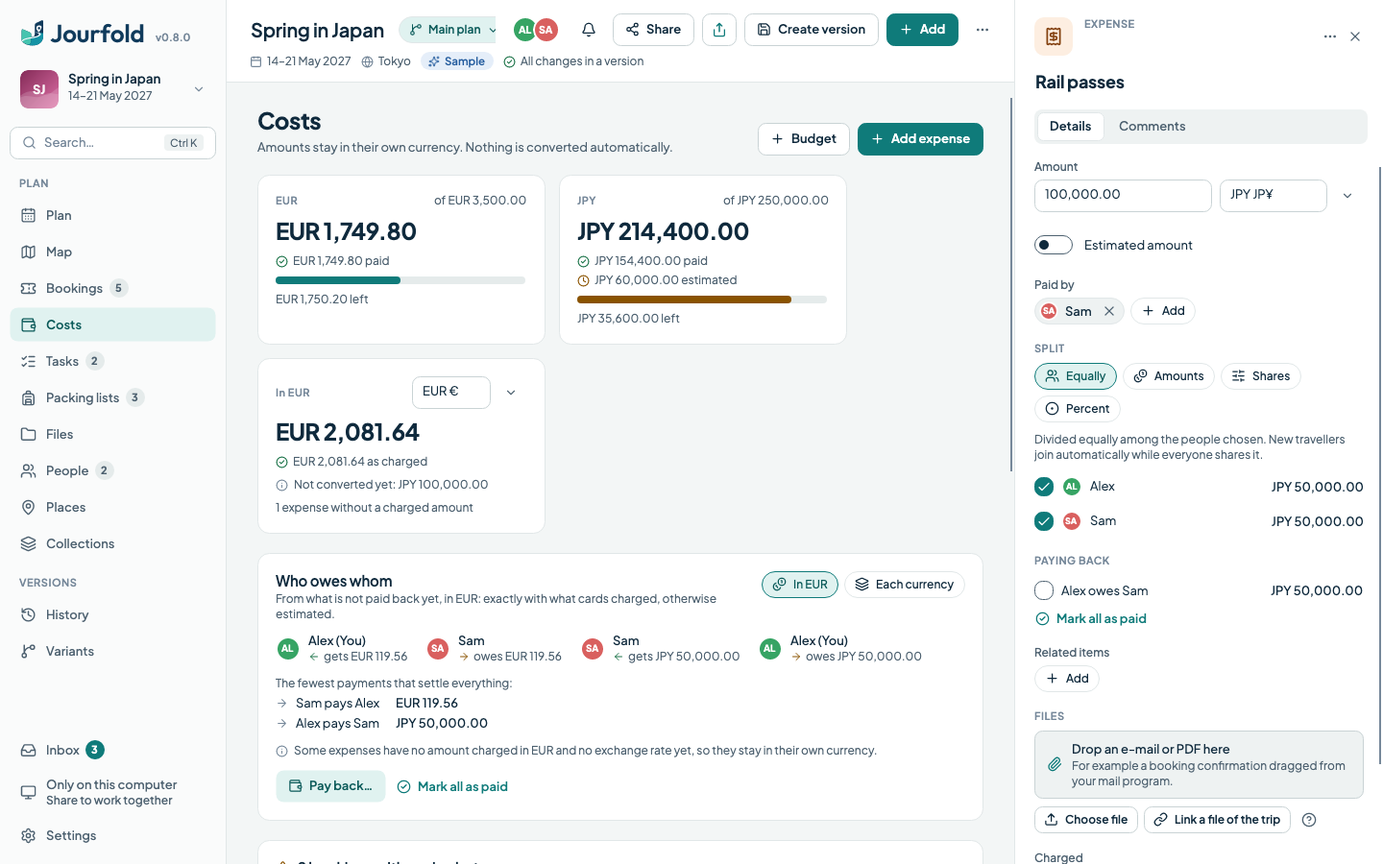
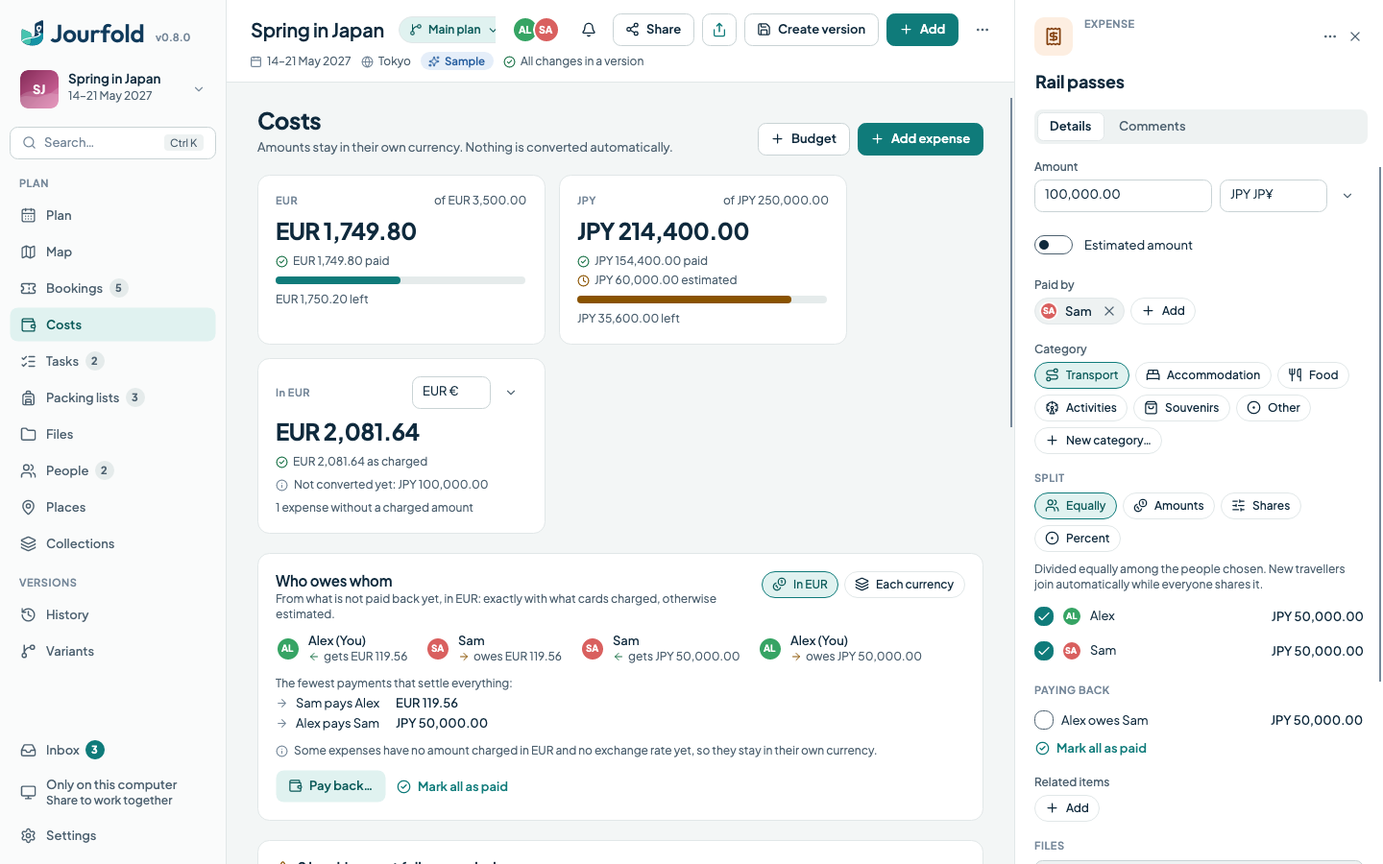
Expense categories, and bookings show how much of their price is recorded
Expenses get a category in their details and in the add-expense form:
transport, accommodation, food, activities, souvenirs, other, or one the
travellers create; without one, the plan or booking suggests it. Costs
show totals by category and each expense's category. A booking's details
compare its price with its expenses and offer to record what is still
open; the bookings list marks Rest open, and the Costs page lists those
bookings too. The phone shows the category. The sample trip has
categories; the costs screenshot is refreshed.

diff --git a/src/Jourfold.Desktop/Views/ExpenseViews.cs b/src/Jourfold.Desktop/Views/ExpenseViews.cs
@@ -242,41 +242,131 @@ public static class ExpenseViews
         return Ui.Card(body, 18).Also(c => c.Width = 300);
     }
 
-    /// <summary>In a booking's details: the expenses recorded for it, or, when it has a price but none, a note and a button to add one.</summary>
+    /// <summary>The icon of an expense category; categories of the travellers' own share a tag.</summary>
+    public static string CategoryIcon(string category) => category switch
+    {
+        ExpenseCategories.Transport => "route",
+        ExpenseCategories.Accommodation => "bed-double",
+        ExpenseCategories.Food => "utensils",
+        ExpenseCategories.Activity => "ferris-wheel",
+        ExpenseCategories.Souvenirs => "shopping-bag",
+        ExpenseCategories.Other => "circle-dot",
+        _ => "tag"
+    };
+
+    /// <summary>The name of a category: standard ones translated, the travellers' own as they typed them.</summary>
+    public static string CategoryName(Localization s, string category) => ExpenseCategories.IsStandard(category) ? s["expcat." + category] : category;
+
+    /// <summary>
+    /// The category of an expense as chips: the standard ones, those the travellers created in this trip, and a
+    /// button for a new one. Without a stored category the suggested one is marked, with a note where it comes from;
+    /// choosing the marked chip again goes back to the suggestion.
+    /// </summary>
+    public static Control CategoryEditor(Localization s, TripSnapshot trip, Entity expense, Func<Func<TripSnapshot, Entity, Entity>, Task> change, Func<Task<string?>> askName)
+    {
+        var stored = ExpenseCategories.Stored(expense);
+        var current = ExpenseCategories.Of(trip, expense);
+        var chips = new WrapPanel { ItemSpacing = 6, LineSpacing = 6 };
+        foreach (var category in ExpenseCategories.Standard.Concat(ExpenseCategories.Custom(trip)).Append(stored).OfType<string>().Distinct())
+        {
+            var chip = Ui.Choice(CategoryName(s, category), CategoryIcon(category), category == current, "chip");
+            chip.Click += (_, _) => _ = change((t, e) => ExpenseCategories.With(t, e, category == stored ? null : category));
+            chips.Children.Add(chip);
+        }
+        var add = Ui.Button(s["NewCategory"], "plus", "chip");
+        add.Click += async (_, _) => { if (await askName() is { } name && name.Trim().Length > 0) await change((t, e) => ExpenseCategories.With(t, e, name)); };
+        chips.Children.Add(add);
+        AutomationProperties.SetName(chips, s["Category"]);
+        var panel = Ui.V(6, chips);
+        if (stored is null && ExpenseCategories.Suggested(trip, expense) is not null) panel.Children.Add(Ui.Text(s["CategorySuggested"], "caption").Also(t => t.TextWrapping = TextWrapping.Wrap));
+        return panel;
+    }
+
+    /// <summary>
+    /// The paid expenses per category, in the currency who owes whom uses where they can be converted, largest first,
+    /// each with a bar for its part of its currency's total. Null without expenses.
+    /// </summary>
+    public static Control? ByCategory(MainWindow w)
+    {
+        var m = w.Model; var s = m.Strings; var trip = m.Trip!;
+        var totals = ExpenseCategories.Totals(trip, m.SettleCurrency, m.EstimateRates);
+        if (totals.Count == 0) return null;
+        var rows = Ui.V(8);
+        foreach (var currency in totals.GroupBy(t => t.Currency))
+        {
+            var sum = currency.Sum(t => t.Amount);
+            foreach (var t in currency)
+            {
+                var ratio = sum == 0 ? 0 : (double)(t.Amount / sum);
+                var bar = new Grid { ColumnDefinitions = new ColumnDefinitions($"{ratio.ToString(System.Globalization.CultureInfo.InvariantCulture)}*,{(1 - ratio).ToString(System.Globalization.CultureInfo.InvariantCulture)}*"), Height = 6, Margin = new Thickness(0, 4, 0, 0) };
+                bar.Children.Add(new Border { CornerRadius = new CornerRadius(3) }.Res(Border.BackgroundProperty, "Bg.Muted").Col(0, 2));
+                bar.Children.Add(new Border { CornerRadius = new CornerRadius(3) }.Res(Border.BackgroundProperty, "Accent"));
+                var amount = (t.Estimated ? "≈ " : "") + Formats.Money(t.Amount, t.Currency) + " · " + ratio.ToString("P0", System.Globalization.CultureInfo.CurrentCulture);
+                rows.Children.Add(Ui.V(0, Ui.Columns("Auto,*,Auto", Ui.Icon(CategoryIcon(t.Category), 14, "Text.Muted").Margin(0, 0, 8, 0), Ui.Line(CategoryName(s, t.Category)), Ui.Text(amount, "strong")), bar));
+            }
+        }
+        var body = Ui.V(12, Ui.Text(s["ByCategory"], "h3"), rows);
+        if (totals.Any(t => t.Estimated)) body.Children.Add(Notice("info", "Text.Subtle", s["EstimatedWithRates"]));
+        return Ui.Card(body, 18);
+    }
+
+    /// <summary>
+    /// In a booking's details: its expenses, and how they compare with the price. The price itself never counts; the
+    /// note says whether nothing, part or all of it is recorded, and offers to record what is still open.
+    /// </summary>
     public static Control? BookingExpenses(MainWindow w, Entity booking)
     {
         var m = w.Model; var s = m.Strings; var trip = m.Trip!;
-        if (Expenses.WithoutExpense(trip).Any(b => b.Id == booking.Id))
+        var payment = Expenses.Payment(trip, booking);
+        if (payment.Coverage == BookingCoverage.NoPrice && payment.Expenses.Count == 0) return null;
+        var panel = Ui.V(6);
+        string Money(decimal amount) => Formats.Money(amount, payment.Price!.Currency);
+        switch (payment.Coverage)
         {
-            var add = Ui.Button(s["AddAsExpense"], "receipt", "soft").Also(b => b.HorizontalAlignment = HorizontalAlignment.Left);
-            add.Click += (_, _) => _ = m.AddExpenseForBookingAsync(booking.Id);
-            return Ui.V(8, Notice("triangle-alert", "Warning", s["BookingNoExpense"]), add);
+            case BookingCoverage.None: panel.Children.Add(Notice("triangle-alert", "Warning", s["BookingNoExpense"])); break;
+            case BookingCoverage.Partial: panel.Children.Add(Notice("clock", "Warning", string.Format(s["BookingPartlyRecorded"], Money(payment.Recorded), Money(payment.Price!.Amount), Money(payment.Rest)))); break;
+            case BookingCoverage.Complete: panel.Children.Add(Notice("circle-check", "Success", s["BookingFullyRecorded"])); break;
+            case BookingCoverage.More: panel.Children.Add(Notice("info", "Text.Subtle", string.Format(s["BookingMoreRecorded"], Money(payment.Recorded), Money(-payment.Rest)))); break;
+            case BookingCoverage.OtherCurrency: panel.Children.Add(Notice("info", "Text.Subtle", string.Format(s["BookingOtherCurrency"], payment.Price!.Currency))); break;
         }
-        var expenses = Expenses.ForBooking(trip, booking.Id);
-        return expenses.Count == 0 ? null : Ui.V(2, expenses.Select(e => (Control)InspectorView.Link(w, e)).ToArray());
+        foreach (var expense in payment.Expenses) panel.Children.Add(InspectorView.Link(w, expense));
+        if (payment.Coverage is BookingCoverage.None or BookingCoverage.Partial)
+        {
+            var add = Ui.Button(s[payment.Coverage == BookingCoverage.None ? "AddAsExpense" : "AddRestAsExpense"], "receipt", "soft").Also(b => b.HorizontalAlignment = HorizontalAlignment.Left);
+            add.Click += (_, _) => _ = m.AddExpenseForBookingAsync(booking.Id);
+            panel.Children.Add(add);
+        }
+        return panel;
     }
 
-    /// <summary>A pill for the bookings list when a booking's price is not recorded as an expense yet.</summary>
-    public static Control? MissingExpensePill(Localization s, IReadOnlySet<Guid> missing, Entity booking) =>
-        missing.Contains(booking.Id) ? Ui.Pill(s["NoExpenseYet"], "receipt", "Warning.Soft", "Warning") : null;
+    /// <summary>A pill for the bookings list when a booking's price is not, or only partly, recorded as expenses.</summary>
+    public static Control? MissingExpensePill(Localization s, IReadOnlyDictionary<Guid, BookingPayment> payments, Entity booking) =>
+        payments.GetValueOrDefault(booking.Id)?.Coverage switch
+        {
+            BookingCoverage.None => Ui.Pill(s["NoExpenseYet"], "receipt", "Warning.Soft", "Warning"),
+            BookingCoverage.Partial => Ui.Pill(s["RestOpen"], "clock", "Warning.Soft", "Warning"),
+            _ => null
+        };
 
-    /// <summary>On the Costs page: bookings with a price but no expense, each with a button that records it.</summary>
+    /// <summary>On the Costs page: bookings whose price is not, or only partly, recorded, each with a button that records what is open.</summary>
     public static Control? MissingExpenses(MainWindow w)
     {
         var m = w.Model; var s = m.Strings; var trip = m.Trip!;
-        var missing = Expenses.WithoutExpense(trip);
-        if (missing.Count == 0) return null;
+        var open = Expenses.Payments(trip).Where(p => p.Coverage is BookingCoverage.None or BookingCoverage.Partial).ToArray();
+        if (open.Length == 0) return null;
         var list = Ui.V(4);
-        foreach (var booking in missing)
+        foreach (var payment in open)
         {
-            var price = TripSummaries.Money(booking.Data["price"])!;
-            var add = Ui.Button(s["AddAsExpense"], "plus", "small");
-            AutomationProperties.SetName(add, string.Format(s["AddAsExpenseFor"], booking.Title));
+            var booking = payment.Booking; var price = payment.Price!;
+            var partial = payment.Coverage == BookingCoverage.Partial;
+            var add = Ui.Button(s[partial ? "AddRestAsExpenseShort" : "AddAsExpense"], "plus", "small");
+            AutomationProperties.SetName(add, string.Format(s[partial ? "AddRestAsExpenseFor" : "AddAsExpenseFor"], booking.Title));
             add.Click += (_, _) => _ = m.AddExpenseForBookingAsync(booking.Id);
-            list.Children.Add(Ui.Columns("*,Auto,Auto", Ui.Line(booking.Title).Also(t => t.VerticalAlignment = VerticalAlignment.Center), Ui.Text(Formats.Money(price.Amount, price.Currency), "strong").Margin(12, 0).Also(t => t.VerticalAlignment = VerticalAlignment.Center), add));
+            var amount = partial ? string.Format(s["RestAmount"], Formats.Money(payment.Rest, price.Currency)) : Formats.Money(price.Amount, price.Currency);
+            list.Children.Add(Ui.Columns("*,Auto,Auto", Ui.Line(booking.Title).Also(t => t.VerticalAlignment = VerticalAlignment.Center), Ui.Text(amount, "strong").Margin(12, 0).Also(t => t.VerticalAlignment = VerticalAlignment.Center), add));
         }
         var heading = Ui.Columns("Auto,*", Ui.Icon("triangle-alert", 15, "Warning").Margin(0, 2, 8, 0).Also(i => i.VerticalAlignment = VerticalAlignment.Top),
-            Ui.V(2, Ui.Text(missing.Count == 1 ? s["BookingsWithoutExpenseOne"] : string.Format(s["BookingsWithoutExpense"], missing.Count), "h3"), Ui.Text(s["BookingsWithoutExpenseHint"], "caption").Also(t => t.TextWrapping = TextWrapping.Wrap)));
+            Ui.V(2, Ui.Text(open.Length == 1 ? s["BookingsWithoutExpenseOne"] : string.Format(s["BookingsWithoutExpense"], open.Length), "h3"), Ui.Text(s["BookingsWithoutExpenseHint"], "caption").Also(t => t.TextWrapping = TextWrapping.Wrap)));
         return Ui.Card(Ui.V(12, heading, list), 18);
     }
 

diff --git a/tests/Jourfold.Tests/ExpenseSplitTests.cs b/tests/Jourfold.Tests/ExpenseSplitTests.cs
@@ -178,8 +178,8 @@ public sealed class ExpenseSplitTests : IDisposable
     }
 
     [AvaloniaTheory]
-    [InlineData("en", "1 booking with a price but no expense", "No expense", "Add Te Anau Lakeview Holiday Park as an expense", "Add")]
-    [InlineData("de", "1 Buchung mit Preis, aber ohne Ausgabe", "Keine Ausgabe", "Te Anau Lakeview Holiday Park als Ausgabe erfassen", "Hinzufügen")]
+    [InlineData("en", "1 booking not fully recorded as expenses", "No expense", "Add Te Anau Lakeview Holiday Park as an expense", "Add")]
+    [InlineData("de", "1 Buchung nicht vollständig als Ausgaben erfasst", "Keine Ausgabe", "Te Anau Lakeview Holiday Park als Ausgabe erfassen", "Hinzufügen")]
     public async Task ABookingsPriceBecomesAnExpenseInOneStep(string language, string heading, string pill, string button, string add)
     {
         var w = await Window(language, "Light"); var m = w.Model;
@@ -211,6 +211,56 @@ public sealed class ExpenseSplitTests : IDisposable
             m.Navigate("Bookings"); m.Selected = m.Trip!.Find(booking.Id); Probe.ShowDetails(w);
             Assert.DoesNotContain(pill, Texts(w));
             await Probe.Until(() => Probe.All<Button>(w.FindControl<Control>("InspectorHost")!).Any(b => AutomationProperties.GetName(b) == "Te Anau Lakeview Holiday Park"));
+        }
+        finally { w.Close(); }
+    }
+
+    [AvaloniaTheory]
+    [InlineData("en", "Accommodation", "Souvenirs", "By category", "Rest open", "Add the rest as expense")]
+    [InlineData("de", "Unterkunft", "Souvenirs", "Nach Kategorie", "Rest offen", "Rest als Ausgabe erfassen")]
+    public async Task ExpensesHaveCategoriesAndABookingShowsWhatIsStillOpen(string language, string accommodation, string souvenirs, string byCategory, string restOpen, string addRest)
+    {
+        var w = await Window(language, "Light"); var m = w.Model;
+        try
+        {
+            var stay = Entity.Create("schedule_item", "Park Hotel Ruapehu"); stay.Data["components"] = new System.Text.Json.Nodes.JsonObject { ["accommodation"] = new System.Text.Json.Nodes.JsonObject() };
+            var booking = Entity.Create("booking", "Park Hotel Ruapehu"); booking.Data["status"] = "confirmed"; booking.Data["items"] = new System.Text.Json.Nodes.JsonArray(stay.Id.ToString());
+            booking.Data["price"] = new System.Text.Json.Nodes.JsonObject { ["value"] = "348.50", ["currency"] = "NZD" };
+            await m.Workspace!.ApplyAsync([new(stay.Id, stay), new(booking.Id, booking)]);
+
+            // A deposit through the form: the stay suggests accommodation.
+            var deposit = m.AddExpenseForBookingAsync(booking.Id);
+            await Probe.Until(() => Probe.All<TextBox>(Probe.Sheet(w)).Any(t => t.Tag as string == "title"));
+            var sheet = Probe.Sheet(w);
+            Assert.Contains(Probe.All<ChoiceButton>(sheet), c => AutomationProperties.GetName(c) == accommodation && c.IsSelected);
+            Probe.All<NumericUpDown>(sheet).Single(n => AutomationProperties.GetName(n) == m.Strings["Amount"]).Value = 100m; Probe.Layout();
+            Probe.Click(sheet, m.Strings["Add"]);
+            await deposit;
+            Assert.Equal(BookingCoverage.Partial, Expenses.Payment(m.Trip!, m.Trip!.Find(booking.Id)!).Coverage);
+            Assert.Equal("accommodation", ExpenseCategories.Of(m.Trip!, Expenses.ForBooking(m.Trip!, booking.Id).Single()));
+
+            // The booking says what is open and records the rest in one step.
+            m.Navigate("Bookings"); Assert.Contains(restOpen, Texts(w));
+            m.Selected = m.Trip!.Find(booking.Id); Probe.ShowDetails(w);
+            var inspector = w.FindControl<Control>("InspectorHost")!;
+            await Probe.Until(() => Probe.All<Button>(inspector).Any(b => AutomationProperties.GetName(b) == addRest));
+            var rest = m.AddExpenseForBookingAsync(booking.Id);
+            await Probe.Until(() => Probe.All<TextBox>(Probe.Sheet(w)).Any(t => t.Tag as string == "title"));
+            Assert.Equal(248.50m, Probe.All<NumericUpDown>(Probe.Sheet(w)).Single(n => AutomationProperties.GetName(n) == m.Strings["Amount"]).Value);
+            Probe.Click(Probe.Sheet(w), m.Strings["Add"]);
+            await rest;
+            Assert.Equal(BookingCoverage.Complete, Expenses.Payment(m.Trip!, m.Trip!.Find(booking.Id)!).Coverage);
+
+            // A category of their own, created in the details.
+            var kiwi = Expense("Kiwi plush", "35.00", "NZD", m.Trip!.Entities.Values.Single(e => e.Title == "Ben"));
+            await m.Workspace.EditAsync(kiwi);
+            m.Navigate("Costs"); m.Selected = m.Trip!.Find(kiwi.Id); Probe.ShowDetails(w);
+            await Probe.Until(() => Probe.All<ChoiceButton>(inspector).Any(c => AutomationProperties.GetName(c) == souvenirs));
+            Probe.All<ChoiceButton>(inspector).Single(c => AutomationProperties.GetName(c) == souvenirs).RaiseEvent(new Avalonia.Interactivity.RoutedEventArgs(Button.ClickEvent));
+            await Probe.Until(() => ExpenseCategories.Stored(m.Trip!.Find(kiwi.Id)!) == "souvenirs");
+            m.Navigate("Plan"); m.Navigate("Costs");
+            Assert.Contains(byCategory, Texts(w));
+            Assert.Contains(accommodation, Texts(w));
         }
         finally { w.Close(); }
     }

diff --git a/src/Jourfold.Desktop/Views/CollectionViews.cs b/src/Jourfold.Desktop/Views/CollectionViews.cs
@@ -51,7 +51,7 @@ public static class CollectionViews
         var bookings = trip.Entities.Values.Where(e => e.Type == "booking").OrderBy(e => (e.Data["items"] as JsonArray ?? []).Select(i => Guid.TryParse(i?.ToString(), out var id) && trip.Find(id) is { } item ? ScheduleQueries.Span(trip, item).Start : null).Where(x => x is not null).Min() ?? Instant.MaxValue).ToArray();
         if (bookings.Length == 0) return Page(w, s["Bookings"], s["BookingsHint"], Ui.Card(Ui.EmptyState("ticket", s["NoBookingsTitle"], s["NoBookingsBody"], AddButton(w, s["AddBooking"], "booking")), 0));
         var list = Ui.V(2);
-        var missing = Expenses.WithoutExpense(trip).Select(b => b.Id).ToHashSet();
+        var payments = Expenses.Payments(trip).ToDictionary(p => p.Booking.Id);
         foreach (var b in bookings)
         {
             var items = (b.Data["items"] as JsonArray ?? []).Select(i => Guid.TryParse(i?.ToString(), out var id) ? trip.Find(id) : null).OfType<Entity>().ToArray();
@@ -67,7 +67,7 @@ public static class CollectionViews
                 Ui.Tile(icon, kind, 38).Margin(0, 0, 14, 0),
                 Ui.V(2, Ui.Line(b.Title, "title"), Ui.Line(string.Join(" · ", new[] { b.Data["provider"]?["name"]?.ToString(), when, items.Length > 1 ? string.Format(s["ItemsCount"], items.Length) : items.FirstOrDefault()?.Title }.Where(x => !string.IsNullOrEmpty(x))), "caption")),
                 refPill?.Margin(12, 0), travelers.Length > 0 ? Ui.AvatarStack(travelers, 24).Margin(8, 0) : null,
-                ExpenseViews.MissingExpensePill(s, missing, b)?.Margin(8, 0),
+                ExpenseViews.MissingExpensePill(s, payments, b)?.Margin(8, 0),
                 Ui.Text(price, "strong").Also(t => { t.HorizontalAlignment = HorizontalAlignment.Right; t.TextAlignment = TextAlignment.Right; }),
                 Ui.Pill(s[status], si, sb, sf).Margin(14, 0, 0, 0));
             list.Children.Add(Row(w, b, grid));
@@ -111,15 +111,15 @@ public static class CollectionViews
             var related = (e.Data["related"] as JsonArray ?? []).Select(r => Guid.TryParse(r?["id"]?.ToString(), out var id) ? trip.Find(id)?.Title : null).OfType<string>().FirstOrDefault();
             var shared = e.Type == "expense" && !estimated ? ExpenseViews.Status(s, Expenses.Split(trip, e)) : null;
             var grid = Ui.Columns("Auto,*,Auto,Auto,140",
-                Ui.Tile(e.Type == "budget" ? "piggy-bank" : "receipt", e.Type == "budget" ? "Nature" : "Food", 34).Margin(0, 0, 12, 0),
-                Ui.V(2, Ui.Line(e.Title, "title"), Ui.Line(string.Join(" · ", new[] { e.Type == "budget" ? s["budget"] : related ?? (payers.Length > 0 ? string.Format(s["PaidBy"], string.Join(", ", payers)) : ""), Expenses.ChargeOf(e) is { } charge ? string.Format(s["ChargedShort"], Formats.Money(charge.Value, charge.Currency)) : null }.Where(x => !string.IsNullOrEmpty(x))), "caption")),
+                Ui.Tile(e.Type == "budget" ? "piggy-bank" : ExpenseViews.CategoryIcon(ExpenseCategories.Of(trip, e)), e.Type == "budget" ? "Nature" : "Food", 34).Margin(0, 0, 12, 0),
+                Ui.V(2, Ui.Line(e.Title, "title"), Ui.Line(string.Join(" · ", new[] { e.Type == "budget" ? s["budget"] : ExpenseViews.CategoryName(s, ExpenseCategories.Of(trip, e)), e.Type == "budget" ? null : related ?? (payers.Length > 0 ? string.Format(s["PaidBy"], string.Join(", ", payers)) : ""), Expenses.ChargeOf(e) is { } charge ? string.Format(s["ChargedShort"], Formats.Money(charge.Value, charge.Currency)) : null }.Where(x => !string.IsNullOrEmpty(x))), "caption")),
                 estimated ? Ui.Pill(s["Estimated"], "clock", "Warning.Soft", "Warning").Margin(8, 0) : shared?.Margin(8, 0),
                 payers.Length > 0 ? Ui.AvatarStack(payers, 22).Margin(8, 0) : null,
                 Ui.Text(money is null ? "" : Formats.Money(money.Amount, money.Currency), "strong").Also(t => { t.HorizontalAlignment = HorizontalAlignment.Right; }));
             list.Children.Add(Row(w, e, grid));
         }
         var note = Ui.H(6, Ui.Icon("info", 13, "Text.Subtle"), Ui.Text(s["NoAutoConversion"], "caption"));
-        return Page(w, s["Costs"], s["CostsHint"], Ui.V(20, tiles, ExpenseViews.WhoOwesWhom(w), ExpenseViews.MissingExpenses(w), ConverterCard(w), Ui.Card(list, 6), note), actions);
+        return Page(w, s["Costs"], s["CostsHint"], Ui.V(20, tiles, ExpenseViews.WhoOwesWhom(w), ExpenseViews.MissingExpenses(w), ExpenseViews.ByCategory(w), ConverterCard(w), Ui.Card(list, 6), note), actions);
     }
 
     /// <summary>

diff --git a/src/Jourfold.Desktop/Dialogs/Dialogs.Create.cs b/src/Jourfold.Desktop/Dialogs/Dialogs.Create.cs
@@ -195,7 +195,9 @@ public sealed partial class Dialogs
         var reference = new TextBox { PlaceholderText = s["BookingReferenceHint"] }; AutomationProperties.SetName(reference, s["Reference"]);
         var peopleIds = request.Person is { } p ? new HashSet<Guid> { p } : new HashSet<Guid>();
         var splitDraft = Entity.Create("expense", "");
+        if (request.Related is { } relatedTo && trip.Find(relatedTo) is { } relatedEntity) splitDraft.Data["related"] = new System.Text.Json.Nodes.JsonArray(new System.Text.Json.Nodes.JsonObject { ["type"] = relatedEntity.Type, ["id"] = relatedEntity.Id.ToString() });
         var splitHost = new ContentControl();
+        var categoryHost = new ContentControl();
         var people = new WrapPanel { ItemSpacing = 6, LineSpacing = 6 };
         foreach (var person in trip.Entities.Values.Where(e => e.Type == "person").OrderBy(e => e.Title))
         {
@@ -211,6 +213,8 @@ public sealed partial class Dialogs
             splitDraft.Data["amount"] = new System.Text.Json.Nodes.JsonObject { ["value"] = (amount.Value ?? 0m).ToString("0.00", System.Globalization.CultureInfo.InvariantCulture), ["currency"] = currency.Value ?? request.Currency };
             splitDraft.Data["paid_by"] = new System.Text.Json.Nodes.JsonArray(peopleIds.Select(id => (System.Text.Json.Nodes.JsonNode?)id.ToString()).ToArray());
         }
+        // The category edits the same draft, so a booking's stay already suggests accommodation.
+        void RenderCategory() => categoryHost.Content = ExpenseViews.CategoryEditor(s, trip, splitDraft, change => { splitDraft = change(trip, splitDraft); RenderCategory(); return Task.CompletedTask; }, () => PromptAsync(s["NewCategory"]));
         void RenderSplit()
         {
             SyncSplitAmount();
@@ -221,7 +225,7 @@ public sealed partial class Dialogs
 
         // Layout() rebuilds the rows whenever the type or a toggle changes. The editors themselves are kept, so typed text
         // survives; each one is detached from its old row before it is placed again.
-        Control[] editors = [title, date, hasTime, time, length, unscheduled, modes, place, from, to, nights, amount, currency, body, reference, people, arrivalDate, arrivalTime, departureZone, arrivalZone, travelTime, zone, zoneLine, splitHost];
+        Control[] editors = [title, date, hasTime, time, length, unscheduled, modes, place, from, to, nights, amount, currency, body, reference, people, arrivalDate, arrivalTime, departureZone, arrivalZone, travelTime, zone, zoneLine, splitHost, categoryHost];
         Control Row(string label, Control editor) => Ui.V(6, Ui.Text(label, "label"), editor);
         Control Side(string heading, Control day, Control clock, Control zone) => Ui.V(6, Ui.Text(heading, "label"), day, clock, zone);
         Control TransportWhenRow() => Ui.V(10, Ui.Columns("*,Auto", hasTime, unscheduled.Margin(12, 0, 0, 0)),
@@ -252,6 +256,7 @@ public sealed partial class Dialogs
             if (kind == "task") fields.Children.Add(Row(s["Due"], date));
             if (kind == "note") fields.Children.Add(Row(s["Body"], body));
             if (kind is "activity" or "food" or "sightseeing" or "transport" or "task" or "expense" or "booking" && people.Children.Count > 0) fields.Children.Add(Row(kind == "expense" ? s["Payer"] : kind == "task" ? s["Assignees"] : s["Who"], people));
+            if (kind == "expense") { RenderCategory(); fields.Children.Add(Row(s["Category"], categoryHost)); }
             if (kind == "expense" && TripPeople.Travelers(trip).Count > 0) { RenderSplit(); fields.Children.Add(Row(s["Split"], splitHost)); }
             typeGrid.Children.Clear();
             foreach (var (k, icon, color) in QuickKinds)
@@ -305,7 +310,8 @@ public sealed partial class Dialogs
                 Reference = reference.Text,
                 People = peopleIds.ToArray(),
                 Split = kind == "expense" ? splitDraft.Data["split"] as System.Text.Json.Nodes.JsonObject : null,
-                Related = request.Related
+                Related = request.Related,
+                Category = kind == "expense" ? ExpenseCategories.Stored(splitDraft) : null
             };
             sheet.Close(draft);
         };

diff --git a/src/Jourfold.Application/QuickAdd.cs b/src/Jourfold.Application/QuickAdd.cs
@@ -39,6 +39,8 @@ public sealed record QuickAddDraft(string Kind, string Title)
     public JsonObject? Split { get; init; }
     /// <summary>What the item belongs to, such as the booking an expense pays for.</summary>
     public Guid? Related { get; init; }
+    /// <summary>For an expense, its category; null follows what it belongs to.</summary>
+    public string? Category { get; init; }
 }
 
 /// <summary>Builds canonical entities for Quick Add. The result is applied as one undoable repository command.</summary>
@@ -146,6 +148,7 @@ public static class QuickAdd
                     if (draft.People.Count > 0) main.Data["paid_by"] = new JsonArray(draft.People.Select(p => (JsonNode?)JsonValue.Create(p.ToString())).ToArray());
                     if (draft.Split is { } split) main.Data["split"] = split.DeepClone();
                     if (draft.Related is { } related && trip.Find(related) is { } target) main.Data["related"] = new JsonArray(new JsonObject { ["type"] = target.Type, ["id"] = target.Id.ToString() });
+                    if (draft.Category is { Length: > 0 } category) main = ExpenseCategories.With(trip, main, category);
                 }
                 break;
             case "collection":

diff --git a/src/Jourfold.Mobile/Views/MorePages.cs b/src/Jourfold.Mobile/Views/MorePages.cs
@@ -598,6 +598,8 @@ public static class MorePages
             var body = Ui.V(10);
             if (Names(trip, expense.Data["paid_by"]) is { Length: > 0 } payers) body.Children.Add(DetailView.Row("user", string.Format(CultureInfo.CurrentCulture, str["PaidBy"], payers), null));
             if (expense.Data["body"]?.ToString() is { Length: > 0 } notes) body.Children.Add(DetailView.Row("sticky-note", notes, null, s));
+            var category = ExpenseCategories.Of(trip, expense);
+            body.Children.Add(DetailView.Row("tag", ExpenseCategories.IsStandard(category) ? str["expcat." + category] : category, str["Category"]));
             if (Expenses.ChargeOf(expense) is { } charge)
                 body.Children.Add(DetailView.Row("wallet", string.Format(CultureInfo.CurrentCulture, str["ChargedShort"], Formats.Money(charge.Value, charge.Currency)), money is null ? null : string.Format(CultureInfo.CurrentCulture, str["ChargedRate"], money.Currency, charge.Rate.ToString("0.####", CultureInfo.CurrentCulture), charge.Currency)));
             // Everyone's part, and a box per debt to mark it as paid back, large enough to tap.

diff --git a/src/Jourfold.Application/SampleTrip.cs b/src/Jourfold.Application/SampleTrip.cs
@@ -166,8 +166,8 @@ public static class SampleTrip
         deposit.Data["related"] = new JsonArray(new JsonObject { ["type"] = "booking", ["id"] = graceryBooking.Id.ToString() });
         tickets.Data["related"] = new JsonArray(new JsonObject { ["type"] = "booking", ["id"] = teamLabBooking.Id.ToString() });
         tickets.Data["converted"] = new JsonObject { ["value"] = "46.36", ["currency"] = "EUR", ["rate"] = "0.0061", ["rate_date"] = start.PlusDays(-12).ToString("yyyy-MM-dd", CultureInfo.InvariantCulture), ["source"] = "card" };
-        Money("expense", "Rail passes", "100000", "JPY", payer: sam);
-        Money("expense", "Food and snacks", "60000", "JPY", estimated: true);
+        Money("expense", "Rail passes", "100000", "JPY", payer: sam).Data["category"] = "transport";
+        Money("expense", "Food and snacks", "60000", "JPY", estimated: true).Data["category"] = "food";
         Money("budget", "Trip budget", "3500.00", "EUR");
         Money("budget", "Spending money in Japan", "250000", "JPY");
 

diff --git a/src/Jourfold.Desktop/Views/InspectorView.cs b/src/Jourfold.Desktop/Views/InspectorView.cs
@@ -206,6 +206,7 @@ public static class InspectorView
                 {
                     body.Children.Add(Editors.Toggle(w, e.Id, "estimated", s["EstimatedToggle"], e.Data["estimated"] is JsonValue v && v.TryGetValue<bool>(out var est) && est));
                     body.Children.Add(Field(s["Payer"], Editors.References(w, e.Id, "paid_by", s["Payer"], "person")));
+                    body.Children.Add(Field(s["Category"], ExpenseViews.CategoryEditor(s, trip, e, change => m.ChangeExpenseAsync(e.Id, change), () => m.Interaction.PromptAsync(s["NewCategory"]))));
                     Add(body, s["Split"], ExpenseViews.SplitEditor(w, e));
                     Add(body, s["PayingBack"], ExpenseViews.PayingBack(w, e));
                     body.Children.Add(Field(s["Related"], Related(w, e)));

diff --git a/src/Jourfold.Desktop/MainViewModel.Costs.cs b/src/Jourfold.Desktop/MainViewModel.Costs.cs
@@ -70,7 +70,7 @@ public partial class MainViewModel
     public Task AddExpenseForBookingAsync(Guid bookingId) => RunEditAsync(async () =>
     {
         if (Workspace?.State.Trip is not { } trip || trip.Find(bookingId) is not { Type: "booking" } booking) return;
-        var start = Expenses.FromBooking(booking);
+        var start = Expenses.FromBooking(trip, booking);
         var price = TripSummaries.Money(start.Data["amount"])!;
         var request = new QuickAddRequest("expense", trip, StartDate, null, null, ScheduleQueries.TripZone(trip).Id, Me?.Id, false, price.Currency) { Title = start.Title, Amount = price.Amount, Related = booking.Id };
         if (await Interaction.QuickAddAsync(request) is not { } draft) return;

diff --git a/docs/user-guide.md b/docs/user-guide.md
@@ -69,7 +69,7 @@ The bell next to the people in the header counts reminders: free cancellation de
 
 ## Bookings, costs, tasks and files
 
-**Bookings** lists reservations with their reference (click the copy icon), price, travellers and status. Bookings and plans have a **Confirmations and files** section: drag a confirmation e-mail or PDF onto it, or choose a file. Thunderbird, eM Client and Apple Mail let you drag an e-mail directly; Gmail and Outlook on the web download it as an `.eml` file first, and classic Outlook can print it to PDF. The help button next to the area explains each. Click a confirmation to open it in Jourfold's document window, which stays open beside the plan. It shows PDFs page by page with zoom and search (Ctrl+F), and e-mails with sender, date, attachments and the message in its original layout; **Text** shows the plain text instead, and Jourfold remembers your choice. An attachment can be opened there or added to the trip next to the e-mail. Scripts, forms and frames in an e-mail are removed, and images from the internet are only loaded when you choose **Load images** for that e-mail, because loading them tells the sender that you opened it. Links ask before they open and show where they really go. An e-mail laid out wider than the window is shrunk to fit. **Costs** totals expenses per currency and compares them with budgets. Amounts stay in their own currency. An expense is divided equally among all travellers unless you change its **Split**, right when you add it or later in the details: equally among some people, by amounts, by shares (such as 2 for a couple) or by percent. If the parts do not add up, the details say how much is left and the list shows **Check split**. **Paying back** in the details lists who owes whom for that expense; tick a line once it is paid back. **Who owes whom** on the Costs page shows each person's balance per currency and the fewest payments that settle everything. **Pay back…** opens the pay function: choose a person and the open items to settle now, see what that comes to after what two people owe each other is set off, and mark them as paid in one step. **Mark all as paid** is for when everyone has made the payments shown. Estimates are divided only once they are paid. For a payment in another currency, enter under **Charged** in its details what the card statement shows in your home currency; the rate is kept with it. Costs then also show a total in the home currency (chosen on that card), and **Who owes whom** and **Pay back…** work in it: exactly where a charged amount was entered, otherwise estimated with reference rates if you allowed them, marked with ≈. **Each currency** shows debts in their own currencies instead. Nothing is converted silently. A booking's price only says what it costs; a booking with a price but no expense is marked **No expense** in Bookings and listed on the Costs page, where **Add as expense** opens the expense form filled in with its title, price and currency. The **Currency converter** below the totals works offline with the European Central Bank's reference rates, which Jourfold fetches at most twice a day after you allow it (also under Settings, **Weather**); nothing about the trip is sent. A booking lists the plans it is for; adding or removing one there changes the plan as well. **Tasks** works like a checklist; type a task and press Enter. Packing lists have their own page (see below). **Files** shows attached tickets, PDFs and photos. Drop files anywhere on the window to add them.
+**Bookings** lists reservations with their reference (click the copy icon), price, travellers and status. Bookings and plans have a **Confirmations and files** section: drag a confirmation e-mail or PDF onto it, or choose a file. Thunderbird, eM Client and Apple Mail let you drag an e-mail directly; Gmail and Outlook on the web download it as an `.eml` file first, and classic Outlook can print it to PDF. The help button next to the area explains each. Click a confirmation to open it in Jourfold's document window, which stays open beside the plan. It shows PDFs page by page with zoom and search (Ctrl+F), and e-mails with sender, date, attachments and the message in its original layout; **Text** shows the plain text instead, and Jourfold remembers your choice. An attachment can be opened there or added to the trip next to the e-mail. Scripts, forms and frames in an e-mail are removed, and images from the internet are only loaded when you choose **Load images** for that e-mail, because loading them tells the sender that you opened it. Links ask before they open and show where they really go. An e-mail laid out wider than the window is shrunk to fit. **Costs** totals expenses per currency and compares them with budgets. Amounts stay in their own currency. An expense is divided equally among all travellers unless you change its **Split**, right when you add it or later in the details: equally among some people, by amounts, by shares (such as 2 for a couple) or by percent. If the parts do not add up, the details say how much is left and the list shows **Check split**. **Paying back** in the details lists who owes whom for that expense; tick a line once it is paid back. **Who owes whom** on the Costs page shows each person's balance per currency and the fewest payments that settle everything. **Pay back…** opens the pay function: choose a person and the open items to settle now, see what that comes to after what two people owe each other is set off, and mark them as paid in one step. **Mark all as paid** is for when everyone has made the payments shown. Estimates are divided only once they are paid. For a payment in another currency, enter under **Charged** in its details what the card statement shows in your home currency; the rate is kept with it. Costs then also show a total in the home currency (chosen on that card), and **Who owes whom** and **Pay back…** work in it: exactly where a charged amount was entered, otherwise estimated with reference rates if you allowed them, marked with ≈. **Each currency** shows debts in their own currencies instead. Nothing is converted silently. Every expense has a **Category**: transport, accommodation, food, activities, souvenirs, other, or one you create with **New category…**, which both of you then see. Without one, an expense takes it from the plan or booking it belongs to. **By category** on the Costs page shows where the money went. A booking's price only says what it costs and never counts by itself; what was paid counts as expenses that belong to the booking, possibly several, such as a deposit and the rest paid on site. A booking's details compare them with the price: nothing recorded, part recorded with the rest open, all recorded, or more than the price. Bookings marked **No expense** or **Rest open** are also listed on the Costs page, and **Add as expense** or **Add the rest as expense** opens the expense form filled in with the booking's title, what is still open and the currency. The **Currency converter** below the totals works offline with the European Central Bank's reference rates, which Jourfold fetches at most twice a day after you allow it (also under Settings, **Weather**); nothing about the trip is sent. A booking lists the plans it is for; adding or removing one there changes the plan as well. **Tasks** works like a checklist; type a task and press Enter. Packing lists have their own page (see below). **Files** shows attached tickets, PDFs and photos. Drop files anywhere on the window to add them.
 
 ### Packing lists
 

diff --git a/docs/screenshots.md b/docs/screenshots.md
@@ -42,7 +42,7 @@ The map before online maps are enabled. Places and routes come from the trip's o
 
 Costs per currency with budgets, the total in euros from what the cards charged, and who owes whom with the fewest payments that settle it, with an expense divided equally between both travellers:
 
-![Costs page with totals for euros and yen with budget progress, a total in euros with the home currency chooser and the rail passes not converted yet, and who owes whom in euros and, for the rail passes, in yen, with the buttons to pay back and to mark all as paid; the inspector shows the rail passes with the split chips, each traveller's part and the line to mark as paid back](screenshots/costs.png)
+![Costs page with totals for euros and yen with budget progress, a total in euros with the home currency chooser and the rail passes not converted yet, and who owes whom in euros and, for the rail passes, in yen, with the buttons to pay back and to mark all as paid; the inspector shows the rail passes with the transport category among the category chips, the split chips, each traveller's part and the line to mark as paid back](screenshots/costs.png)
 
 A packing list with groups, who brings what, what each person has packed, and one item nobody has taken yet:
 
